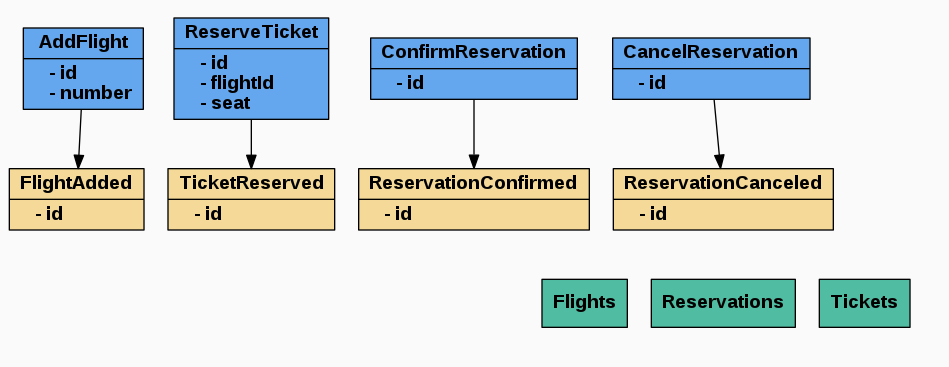
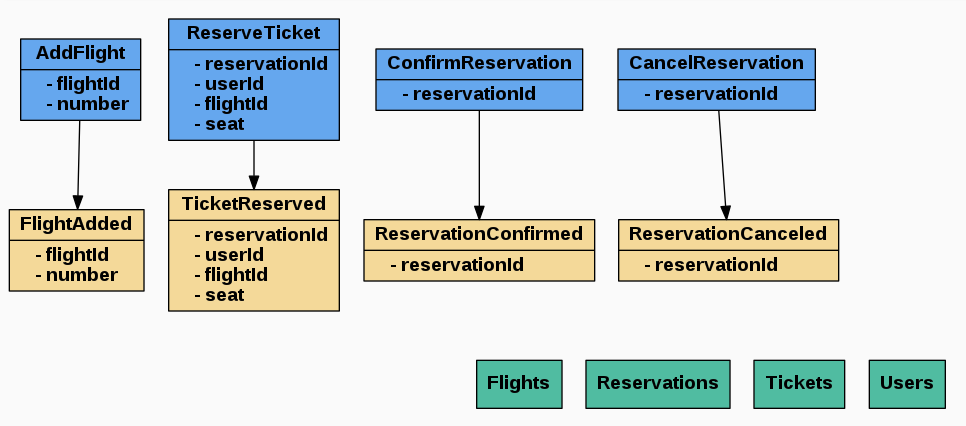
Implement reservation endpoint

Changed region(s): [[0.0, 0.03, 0.8862, 0.7493], [0.4889, 0.7493, 0.9779, 0.9591]]

diff --git a/tests/Domain/FlightTest.php b/tests/Domain/FlightTest.php
@@ -18,7 +18,7 @@ final class FlightTest extends BaseTestCase
     public function it_allow_to_create_flight(): void
     {
         $command = $this->message(Command::ADD_FLIGHT, [
-            Payload::ID => 'cd3b6c59-4f0a-4edb-962b-6f76f8e1bb28',
+            Payload::FLIGHT_ID => 'cd3b6c59-4f0a-4edb-962b-6f76f8e1bb28',
             Payload::NUMBER => 'KL445'
         ]);
 
@@ -27,8 +27,36 @@ final class FlightTest extends BaseTestCase
         );
 
         $this->assertRecordedEvent(Event::FLIGHT_ADDED, [
-            Payload::ID => 'cd3b6c59-4f0a-4edb-962b-6f76f8e1bb28',
+            Payload::FLIGHT_ID => 'cd3b6c59-4f0a-4edb-962b-6f76f8e1bb28',
             Payload::NUMBER => 'KL445'
         ], $events);
+    }
+
+    /**
+     * @test
+     */
+    public function it_not_allow_to_reserve_not_available_seat(): void
+    {
+        $state = Flight\State::fromArray([
+            Payload::FLIGHT_ID => $flightId = 'cd3b6c59-4f0a-4edb-962b-6f76f8e1bb28',
+            Payload::NUMBER => 'KL445'
+        ]);
+
+        $state = $state->withReservation(new Flight\Reservation(
+            'bf4a1753-54bf-44c5-8252-f1db3d529a27',
+            '8039a438-1e60-49c6-ba13-c75b4cdad5b6',
+            '24A'
+        ));
+
+        $command = $this->message(Command::RESERVE_TICKET, [
+            Payload::RESERVATION_ID => '40ba879f-e9db-4c15-9828-5bdb7e7f1010',
+            Payload::USER_ID => '7287e8eb-3ec7-43a3-8d07-f579272f2a6f',
+            Payload::FLIGHT_ID => $flightId,
+            Payload::SEAT => '24A'
+        ]);
+
+        self::expectException(\DomainException::class);
+
+        iterator_to_array(Flight::reserveTicket($state, $command));
     }
 }

diff --git a/src/Domain/Flight.php b/src/Domain/Flight.php
@@ -5,6 +5,9 @@ declare(strict_types=1);
 namespace FlightHub\Domain;
 
 use FlightHub\Api\Event;
+use FlightHub\Api\Payload;
+use FlightHub\Domain\Flight\Reservation;
+use FlightHub\Domain\Flight\State;
 use Prooph\EventMachine\Messaging\Message;
 
 final class Flight
@@ -14,8 +17,26 @@ final class Flight
         yield [Event::FLIGHT_ADDED, $addFlight->payload()];
     }
 
-    public static function whenFlightAdded(Message $flightAdded): Flight\State
+    public static function whenFlightAdded(Message $flightAdded): State
     {
-        return Flight\State::fromArray($flightAdded->payload());
+        return State::fromArray($flightAdded->payload());
+    }
+
+    public static function reserveTicket(State $state, Message $reserveTicket): \Generator
+    {
+        if (!$state->isSeatAvailable($reserveTicket->get(Payload::SEAT))) {
+            throw new \DomainException(sprintf('Seat %s is not available', $reserveTicket->get(Payload::SEAT)));
+        }
+
+        yield [Event::TICKET_RESERVED, $reserveTicket->payload()];
+    }
+
+    public static function whenTicketReserved(State $state, Message $reserveTicket): State
+    {
+        return $state->withReservation(new Reservation(
+            $reserveTicket->get(Payload::RESERVATION_ID),
+            $reserveTicket->get(Payload::USER_ID),
+            $reserveTicket->get(Payload::SEAT)
+        ));
     }
 }

diff --git a/src/Domain/Flight/State.php b/src/Domain/Flight/State.php
@@ -4,6 +4,7 @@ declare(strict_types=1);
 
 namespace FlightHub\Domain\Flight;
 
+use FlightHub\Api\Type;
 use Prooph\EventMachine\Data\ImmutableRecord;
 use Prooph\EventMachine\Data\ImmutableRecordLogic;
 
@@ -14,20 +15,51 @@ final class State implements ImmutableRecord
     /**
      * @var string
      */
-    private $id;
+    private $flightId;
 
     /**
      * @var string
      */
     private $number;
 
-    public function id(): string
+    /**
+     * @var Reservation[]
+     */
+    private $reservations = [];
+
+    private static function arrayPropItemTypeMap(): array
     {
-        return $this->id;
+        return ['reservations' => Type::RESERVATION];
+    }
+
+    public function flightId(): string
+    {
+        return $this->flightId;
     }
 
     public function number(): string
     {
         return $this->number;
+    }
+
+    /**
+     * @return Reservation[]
+     */
+    public function reservations(): array
+    {
+        return $this->reservations;
+    }
+
+    public function withReservation(Reservation $reservation): State
+    {
+        $copy = clone $this;
+        $copy->reservations[$reservation->seat()] = $reservation;
+
+        return $copy;
+    }
+
+    public function isSeatAvailable(string $seat): bool
+    {
+        return !isset($this->reservations[$seat]);
     }
 }

diff --git a/src/Api/Event.php b/src/Api/Event.php
@@ -11,17 +11,24 @@ use Prooph\EventMachine\JsonSchema\JsonSchema;
 class Event implements EventMachineDescription
 {
     public const FLIGHT_ADDED = 'FlightAdded';
+    public const TICKET_RESERVED = 'TicketReserved';
 
     public static function describe(EventMachine $eventMachine): void
     {
         $eventMachine->registerEvent(
             self::FLIGHT_ADDED,
-            JsonSchema::object(
-                [
-                    Payload::ID => Schema::id(),
-                    Payload::NUMBER => Schema::flightNumber()
-                ]
-            )
+            JsonSchema::object([
+                Payload::FLIGHT_ID => Schema::id(),
+                Payload::NUMBER => Schema::flightNumber()
+            ])
+        )->registerEvent(
+            self::TICKET_RESERVED,
+            JsonSchema::object([
+                Payload::RESERVATION_ID => Schema::id(),
+                Payload::USER_ID => Schema::id(),
+                Payload::FLIGHT_ID => Schema::id(),
+                Payload::SEAT => Schema::seat()
+            ])
         );
     }
 }

diff --git a/src/Api/Command.php b/src/Api/Command.php
@@ -11,6 +11,7 @@ use Prooph\EventMachine\JsonSchema\JsonSchema;
 class Command implements EventMachineDescription
 {
     public const ADD_FLIGHT = 'AddFlight';
+    public const RESERVE_TICKET = 'ReserveTicket';
 
     public static function describe(EventMachine $eventMachine): void
     {
@@ -18,8 +19,20 @@ class Command implements EventMachineDescription
             self::ADD_FLIGHT,
             JsonSchema::object(
                 [
-                    Payload::ID => Schema::id(),
+                    Payload::FLIGHT_ID => Schema::id(),
                     Payload::NUMBER => Schema::flightNumber()
+                ]
+            )
+        );
+
+        $eventMachine->registerCommand(
+            self::RESERVE_TICKET,
+            JsonSchema::object(
+                [
+                    Payload::RESERVATION_ID => Schema::id(),
+                    Payload::USER_ID => Schema::id(),
+                    Payload::FLIGHT_ID => Schema::id(),
+                    Payload::SEAT => Schema::seat()
                 ]
             )
         );

diff --git a/src/Infrastructure/Finder/FlightFinder.php b/src/Infrastructure/Finder/FlightFinder.php
@@ -32,7 +32,7 @@ final class FlightFinder
     {
         switch ($flightQuery->messageName()) {
             case Query::FLIGHT:
-                $this->resolveFlight($deferred, $flightQuery->get(Payload::ID));
+                $this->resolveFlight($deferred, $flightQuery->get(Payload::FLIGHT_ID));
                 break;
             case Query::FLIGHTS:
                 $this->resolveFlights($deferred, $flightQuery->getOrDefault(Payload::NUMBER, null));
@@ -42,7 +42,7 @@ final class FlightFinder
 
     private function resolveFlight(Message $flightQuery, Deferred $deferred): void
     {
-        $flightDoc = $this->documentStore->getDoc($this->collectionName, $flightQuery->get(Payload::ID));
+        $flightDoc = $this->documentStore->getDoc($this->collectionName, $flightQuery->get(Payload::FLIGHT_ID));
 
         if (!$flightDoc) {
             $deferred->reject(new \RuntimeException('Flight not found', 404));

diff --git a/src/Domain/Flight/Reservation.php b/src/Domain/Flight/Reservation.php
@@ -1,0 +1,50 @@
+<?php
+
+declare(strict_types=1);
+
+namespace FlightHub\Domain\Flight;
+
+use Prooph\EventMachine\Data\ImmutableRecord;
+use Prooph\EventMachine\Data\ImmutableRecordLogic;
+
+final class Reservation implements ImmutableRecord
+{
+    use ImmutableRecordLogic;
+
+    /**
+     * @var string
+     */
+    private $id;
+
+    /**
+     * @var string
+     */
+    private $userId;
+
+    /**
+     * @var string
+     */
+    private $seat;
+
+    public function __construct(string $id, string $userId, string $seat)
+    {
+        $this->id = $id;
+        $this->userId = $userId;
+        $this->seat = $seat;
+    }
+
+    public function id(): string
+    {
+        return $this->id;
+    }
+
+    public function userId(): string
+    {
+        return $this->userId;
+    }
+
+    public function seat(): string
+    {
+        return $this->seat;
+    }
+}

diff --git a/src/Api/Aggregate.php b/src/Api/Aggregate.php
@@ -16,10 +16,17 @@ class Aggregate implements EventMachineDescription
     {
         $eventMachine->process(Command::ADD_FLIGHT)
             ->withNew(self::FLIGHT)
-            ->identifiedBy('id')
+            ->identifiedBy(Payload::FLIGHT_ID)
             ->handle([Flight::class, 'add'])
             ->recordThat(Event::FLIGHT_ADDED)
             ->apply([Flight::class, 'whenFlightAdded'])
+        ;
+
+        $eventMachine->process(Command::RESERVE_TICKET)
+            ->withExisting(self::FLIGHT)
+            ->handle([Flight::class, 'reserveTicket'])
+            ->recordThat(Event::TICKET_RESERVED)
+            ->apply([Flight::class, 'whenTicketReserved'])
         ;
     }
 }

diff --git a/src/Api/Type.php b/src/Api/Type.php
@@ -13,6 +13,7 @@ use FlightHub\Domain\Flight;
 class Type implements EventMachineDescription
 {
     public const HEALTH_CHECK = 'HealthCheck';
+    public const RESERVATION = 'Reservation';
 
     private static function healthCheck(): ObjectType
     {
@@ -30,5 +31,6 @@ class Type implements EventMachineDescription
         $eventMachine->registerType(self::HEALTH_CHECK, self::healthCheck());
 
         $eventMachine->registerType(Aggregate::FLIGHT, Flight\State::__schema());
+        $eventMachine->registerType(self::RESERVATION, Flight\Reservation::__schema());
     }
 }

diff --git a/src/Api/Query.php b/src/Api/Query.php
@@ -23,7 +23,7 @@ class Query implements EventMachineDescription
             ->setReturnType(Schema::healthCheck());
 
         $eventMachine->registerQuery(self::FLIGHT, JsonSchema::object([
-            Payload::ID => Schema::id(),
+            Payload::FLIGHT_ID => Schema::id(),
         ]))
             ->resolveWith(FlightFinder::class)
             ->setReturnType(Schema::flight());

diff --git a/src/Api/Schema.php b/src/Api/Schema.php
@@ -22,6 +22,11 @@ class Schema
         return JsonSchema::string(['pattern' => '^[A-Z0-9]{3,}$']);
     }
 
+    public static function seat(): StringType
+    {
+        return JsonSchema::string(['pattern' => '[0-9]{1,2}[A-Z]{1}$']);
+    }
+
     public static function flightNumberFilter(): StringType
     {
         return JsonSchema::string()->withMinLength(1);

diff --git a/src/Api/Payload.php b/src/Api/Payload.php
@@ -9,6 +9,11 @@ class Payload
     public const SKIP = 'skip';
     public const LIMIT = 'limit';
 
-    public const ID = 'id';
+    public const FLIGHT_ID = 'flightId';
     public const NUMBER = 'number';
+
+    public const RESERVATION_ID = 'reservationId';
+    public const SEAT = 'seat';
+
+    public const USER_ID = 'userId';
 }
